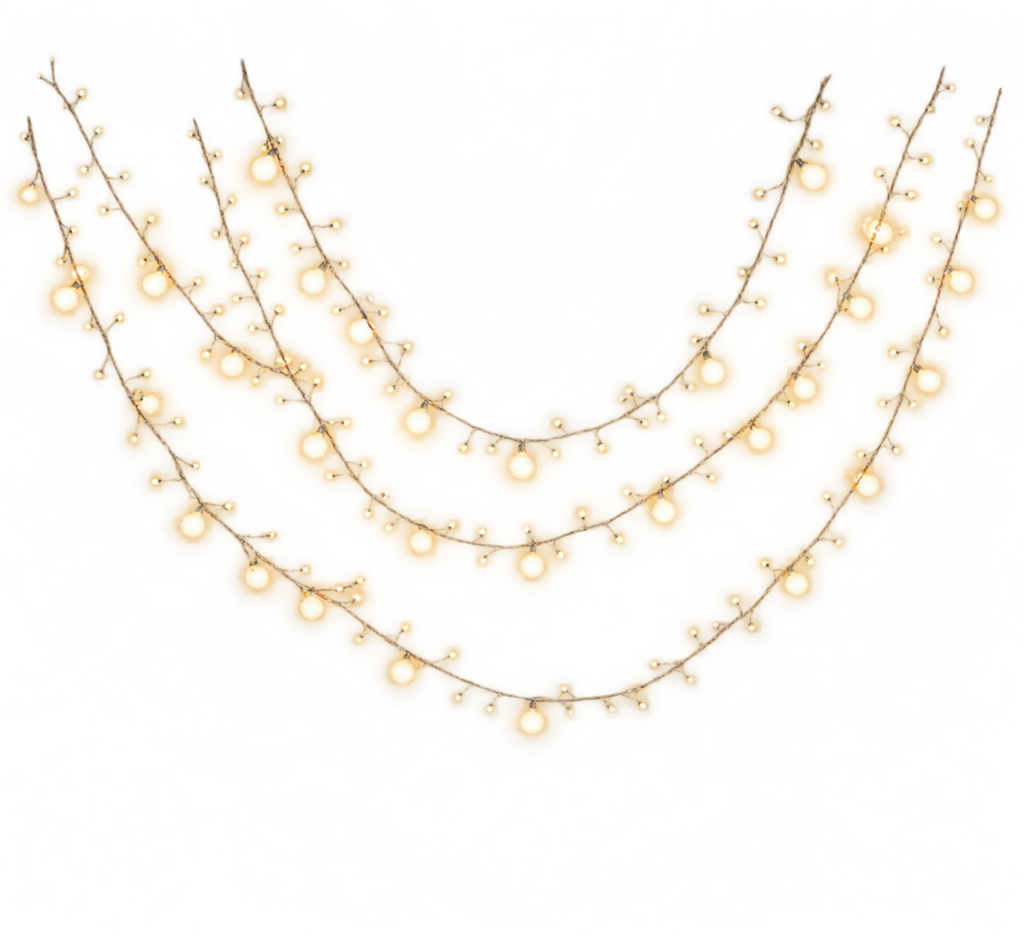
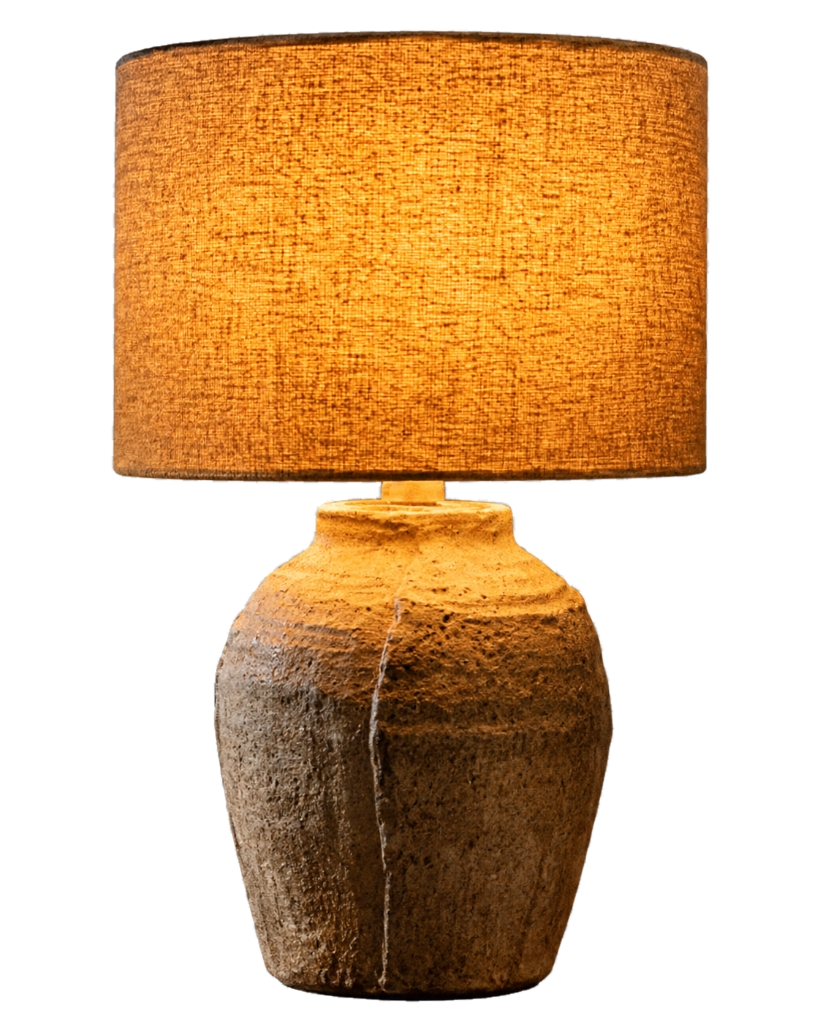
feat(assets): update Artisan Table Lamp customization cutout image

diff --git a/scripts/process_lamp.py b/scripts/process_lamp.py
@@ -1,0 +1,82 @@
+import numpy as np
+from PIL import Image, ImageFilter
+from collections import deque
+import os
+
+source_path = r"C:/Users/hp/.gemini/antigravity/brain/2c5bf19e-49d8-4801-8d8e-e99f99fb71c4/.user_uploaded/media_1794370547264_8f14a3ec.jpg"
+
+img = Image.open(source_path).convert("RGB")
+w, h = img.size
+arr = np.array(img, dtype=np.int32)
+
+r, g, b = arr[:, :, 0], arr[:, :, 1], arr[:, :, 2]
+
+# Compute color difference (saturation/chroma) and brightness
+max_diff = np.maximum(np.maximum(np.abs(r - g), np.abs(r - b)), np.abs(g - b))
+min_channel = np.minimum(np.minimum(r, g), b)
+
+# Background checkerboard squares are light gray / off-white neutral tones:
+# square 1: ~254, 254, 254
+# square 2: ~231, 231, 231
+# max_diff is tiny (<= 15), min_channel is high (>= 170)
+is_neutral_light = (max_diff <= 15) & (min_channel >= 165)
+
+# BFS flood fill from all borders to mark background
+visited = np.zeros((h, w), dtype=bool)
+q = deque()
+
+for x in range(w):
+    if is_neutral_light[0, x]:
+        q.append((0, x))
+        visited[0, x] = True
+    if is_neutral_light[h - 1, x]:
+        q.append((h - 1, x))
+        visited[h - 1, x] = True
+
+for y in range(h):
+    if is_neutral_light[y, 0] and not visited[y, 0]:
+        q.append((y, 0))
+        visited[y, 0] = True
+    if is_neutral_light[y, w - 1] and not visited[y, w - 1]:
+        q.append((y, w - 1))
+        visited[y, w - 1] = True
+
+while q:
+    y, x = q.popleft()
+    for dy, dx in ((-1, 0), (1, 0), (0, -1), (0, 1)):
+        ny, nx = y + dy, x + dx
+        if 0 <= ny < h and 0 <= nx < w:
+            if not visited[ny, nx] and is_neutral_light[ny, nx]:
+                visited[ny, nx] = True
+                q.append((ny, nx))
+
+# visited == True is background.
+# Foreground lamp alpha
+alpha = np.where(visited, 0, 255).astype(np.uint8)
+
+# Check foreground bounding box
+fg_y, fg_x = np.where(alpha > 0)
+print(f"Foreground bbox: Y: {fg_y.min()} to {fg_y.max()}, X: {fg_x.min()} to {fg_x.max()}")
+print(f"Foreground area: {len(fg_y)} / {w*h} ({len(fg_y)/(w*h)*100:.2f}%)")
+
+# Slight feathering to avoid jagged anti-aliasing artifacts on borders
+alpha_img = Image.fromarray(alpha, mode="L")
+# Apply a tiny blur to smooth the 1px edge
+alpha_smooth = alpha_img.filter(ImageFilter.GaussianBlur(radius=0.75))
+
+rgba = Image.fromarray(arr.astype(np.uint8), mode="RGB")
+rgba.putalpha(alpha_smooth)
+
+# Save to the targets
+targets = [
+    r"c:\Users\hp\OneDrive\KAYA-main\Frontend\public\images\masterpiece\cutouts\product_lamp_cutout.png",
+    r"c:\Users\hp\OneDrive\KAYA-main\Frontend\public\images\masterpiece\cutouts\artisan_table_lamp_studio_cutout.png",
+    r"c:\Users\hp\OneDrive\KAYA-main\Frontend\public\images\masterpiece\product_lamp.png"
+]
+
+for t in targets:
+    os.makedirs(os.path.dirname(t), exist_ok=True)
+    rgba.save(t, "PNG")
+    print(f"Saved to {t} (size: {os.path.getsize(t)} bytes)")
+
+print("Processing completed successfully.")
